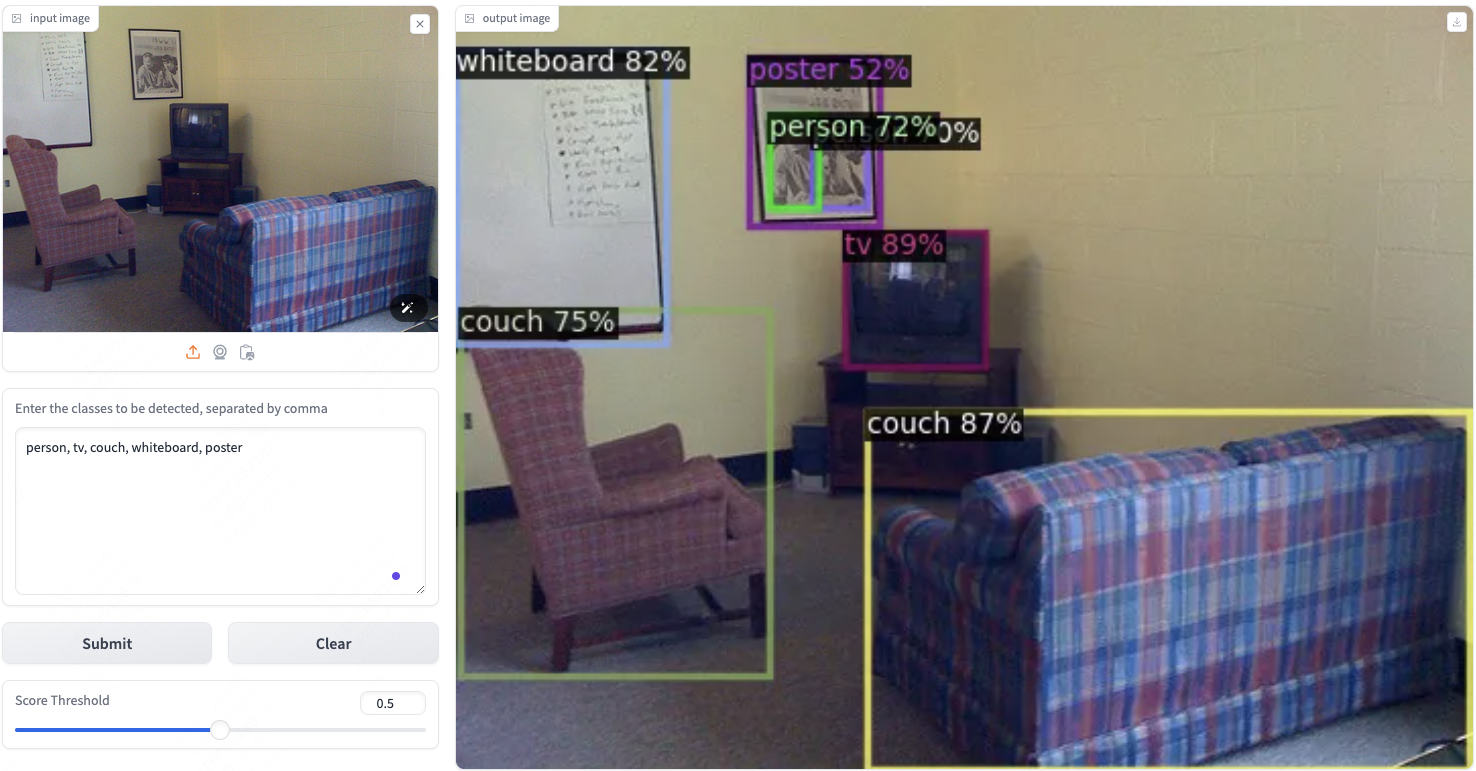
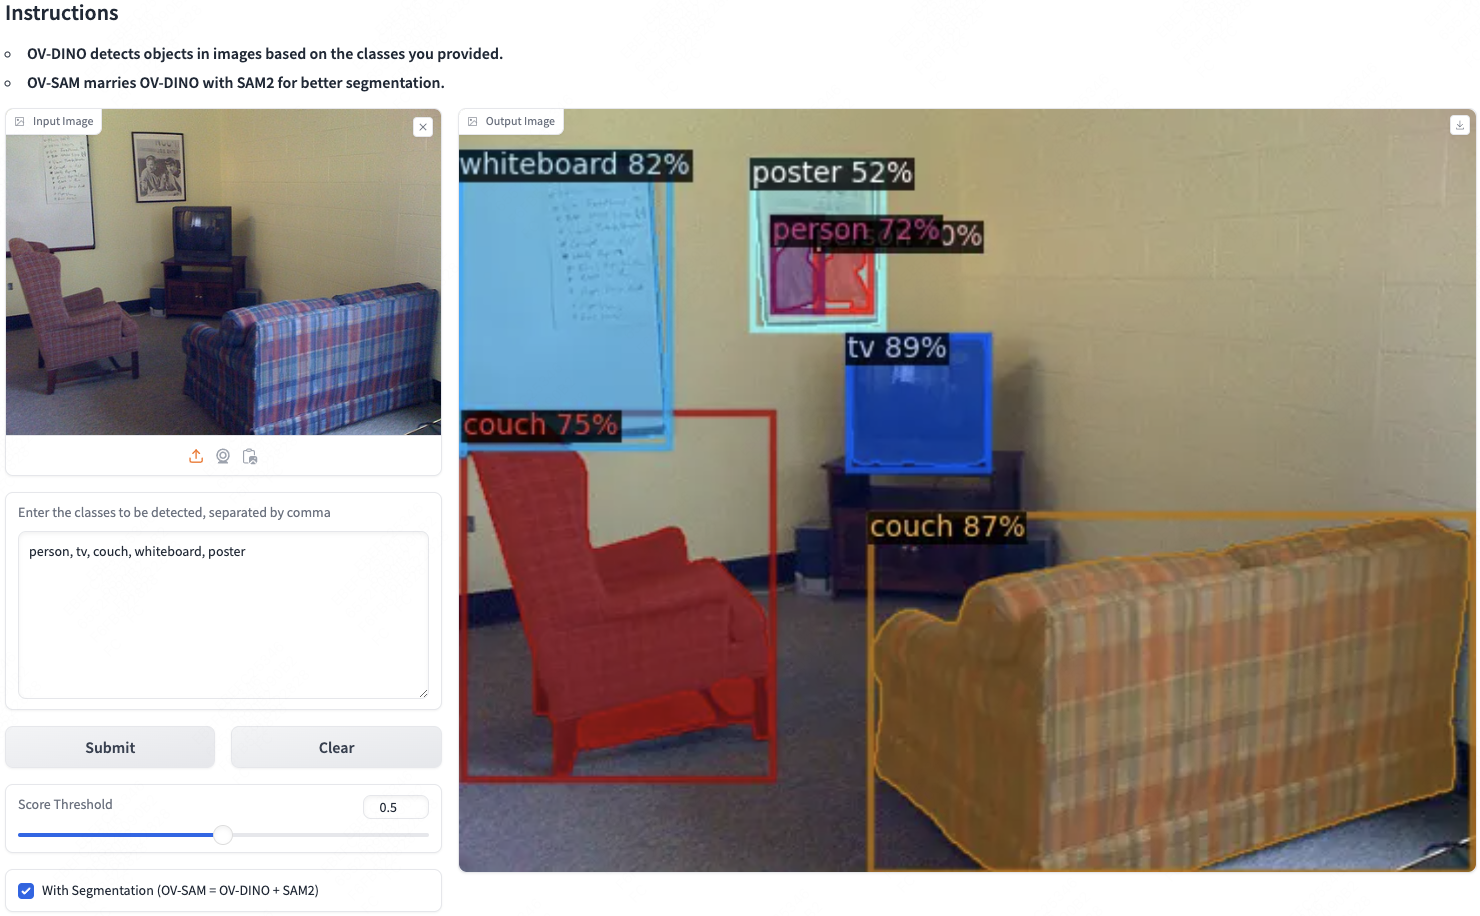
Update website

diff --git a/docs/index.html b/docs/index.html
@@ -240,6 +240,8 @@
         <div class="content has-text-justified">
           <p>
             We provide the online <a href="http://47.115.200.157:7860"> demo</a>, click and enjoy !!!
+            OV-DINO: Detect anything based on your provided classes.
+            OV-SAM: OV-DINO + SAM2, detect then segment anything based on your provided classes.
           </p>
           <img src="demo_sample.png">
         </div>
